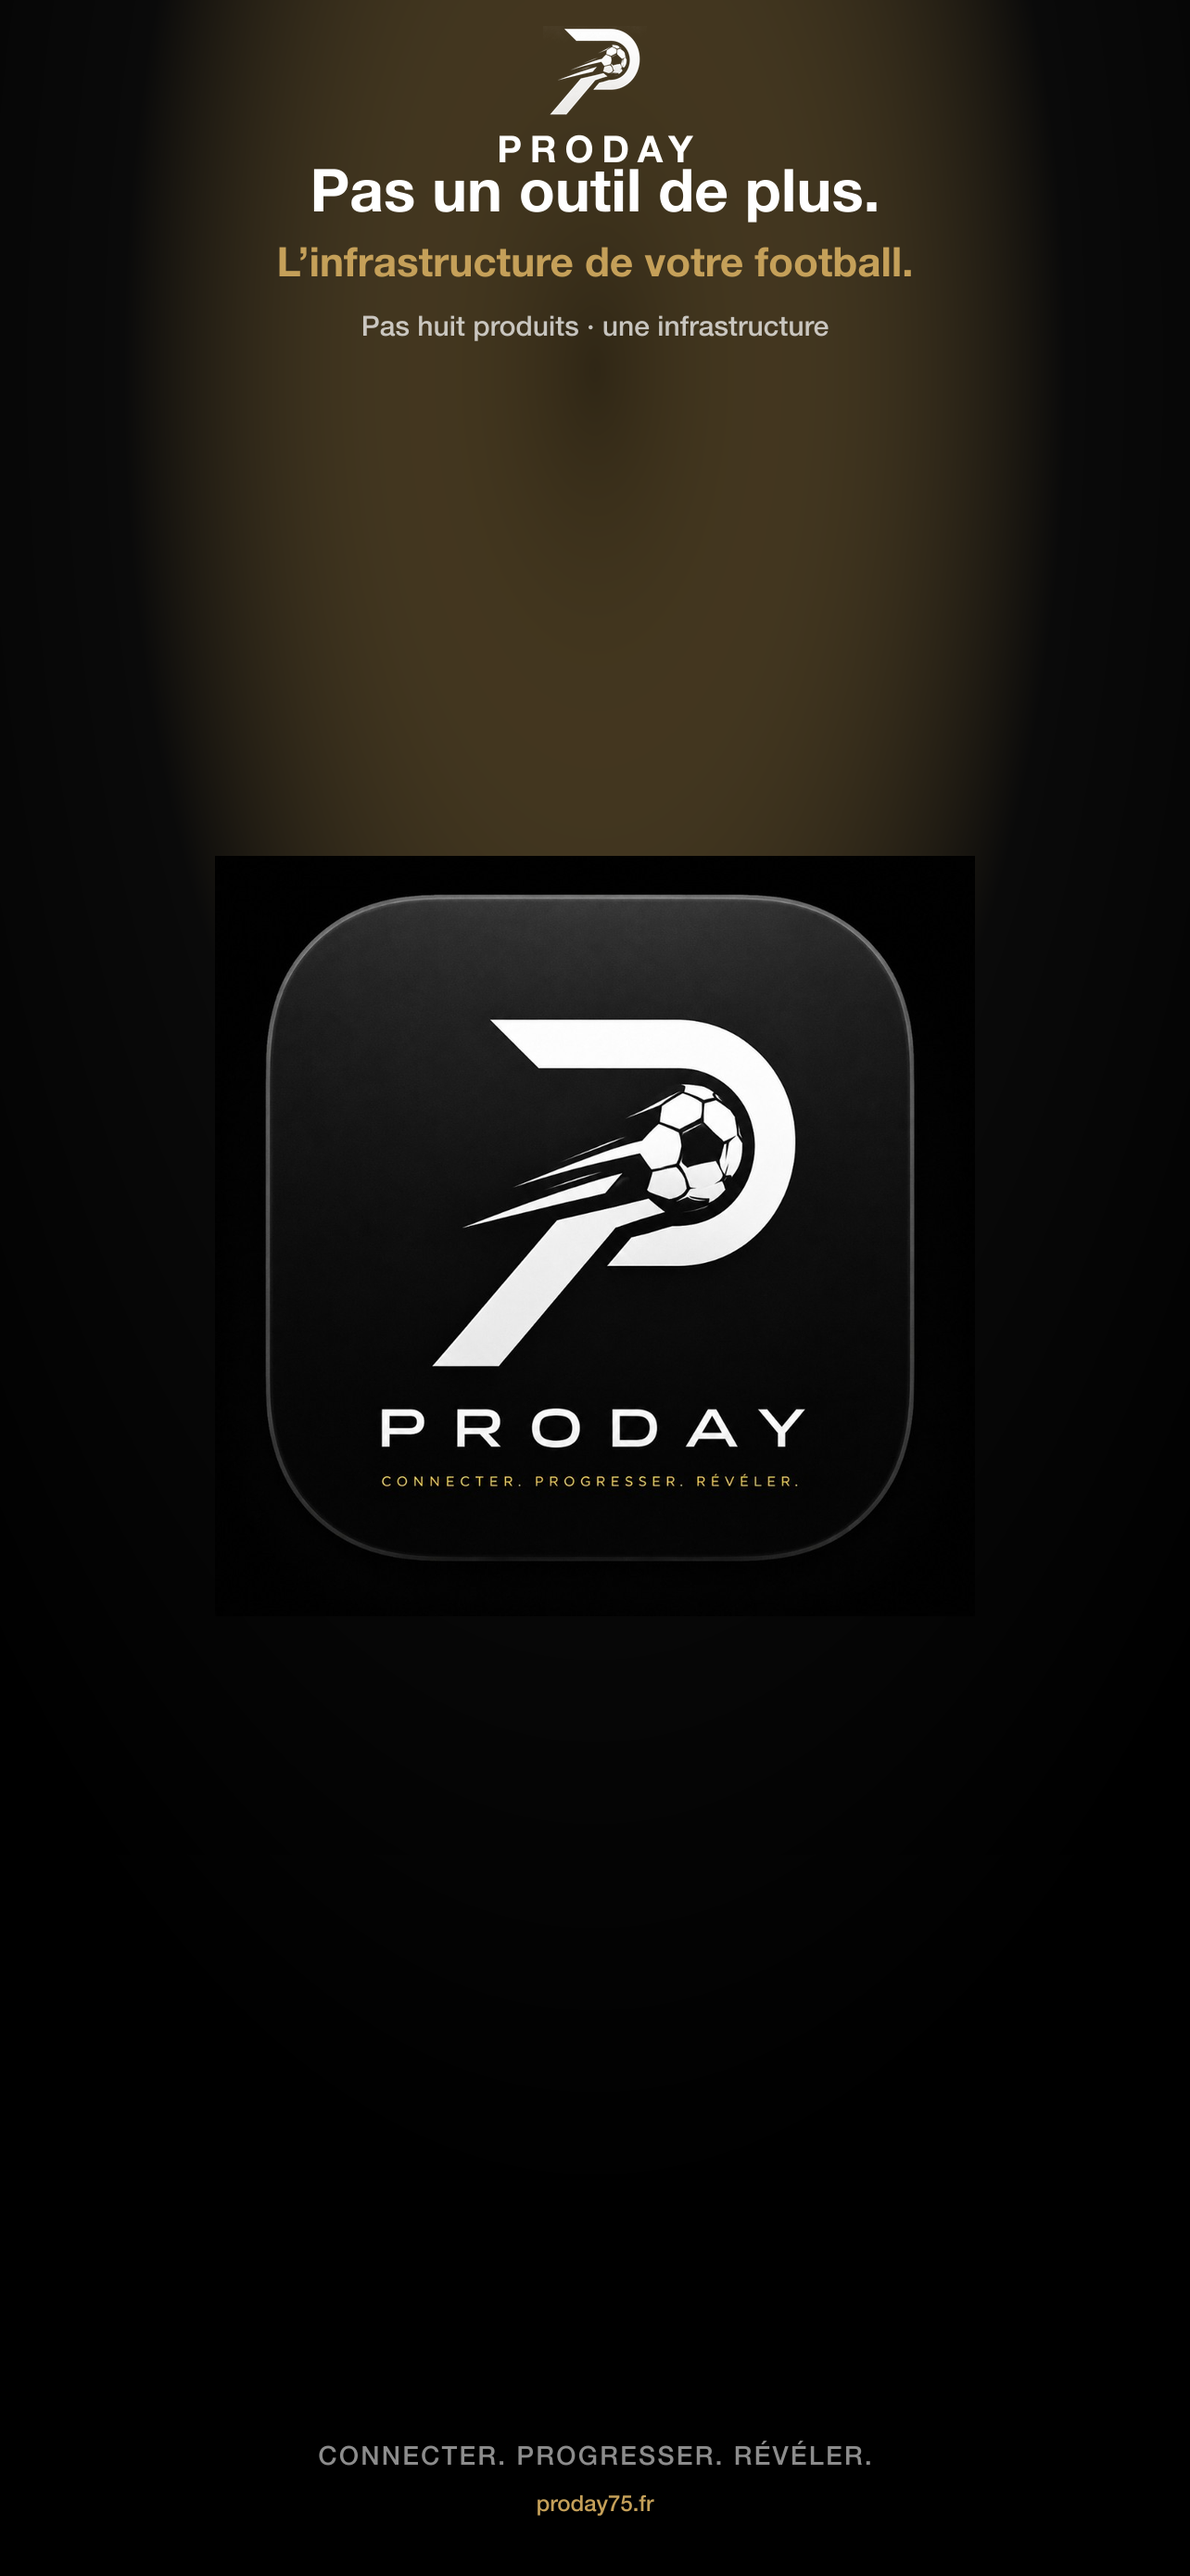
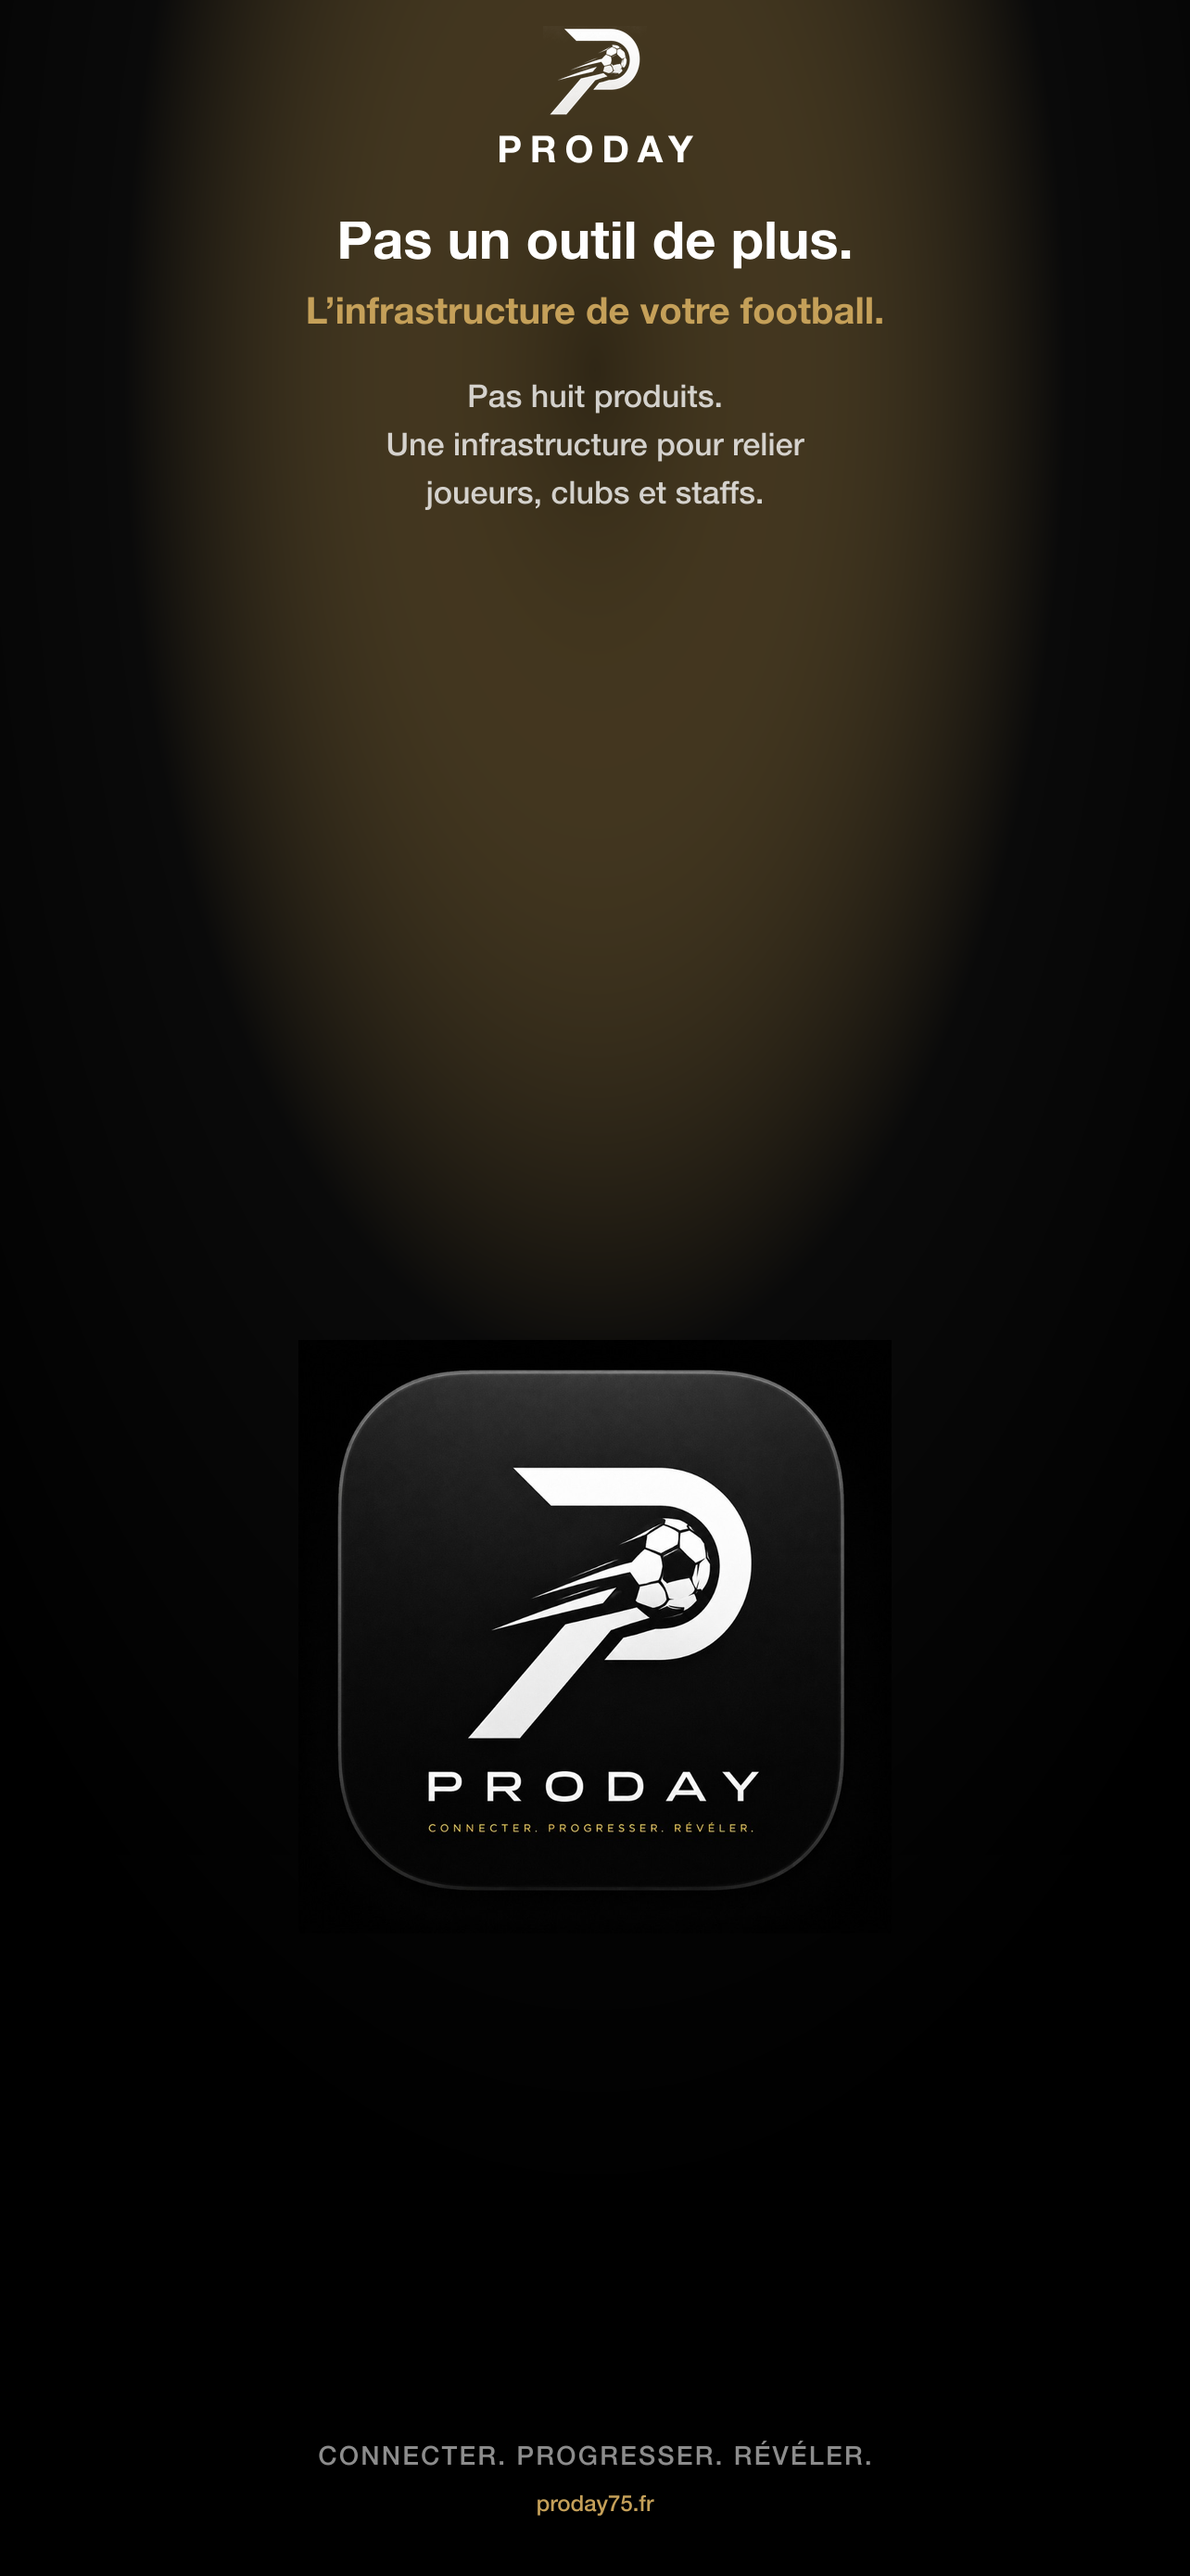
Refaire les 3 captures App Store objectif en texte + branding sans UI app.

diff --git a/assets/marketing/app-store/ios-6.5/README.md b/assets/marketing/app-store/ios-6.5/README.md
@@ -17,6 +17,8 @@ App Store Connect → **Médias de l’app** → **Captures d’écran** → **i
 
 ### Pôles (01–07)
 
+Cadre iPhone + capture simulateur réelle.
+
 | # | Fichier | Pôle | Accroche | Écran réel (v1.0.8) |
 |---|---------|------|----------|----------------------|
 | 1 | `01-pole-joueur.png` | Joueur | Profil, stats et carrière en ligne | `player/player-profil.jpg` |
@@ -31,23 +33,22 @@ App Store Connect → **Médias de l’app** → **Captures d’écran** → **i
 
 ### Objectif / pourquoi ProDay (08–10)
 
-Présentent **pourquoi ProDay existe** (infrastructure · centralisation · portes), pas des pôles supplémentaires.
+Texte + branding (symbole P · wordmark · lockup). **Pas de cadre téléphone**, **pas de screenshot app** — uniquement le but de ProDay.
 
-| # | Fichier | Thème | Accroche | Visuel |
-|---|---------|-------|----------|--------|
-| 8 | `08-objectif-infrastructure.png` | Promesse | Pas un outil de plus. · L’infrastructure de votre football. | Hero lockup brand |
-| 9 | `09-objectif-centralisation.png` | Centralisation | Une seule app · Plus de WhatsApp · tableurs · docs | `club/club-outils.jpg` |
-| 10 | `10-objectif-portes.png` | Portes | Six portes d’entrée · Un seul écosystème | `player/player-accueil.jpg` |
+| # | Fichier | Thème | Accroche |
+|---|---------|-------|----------|
+| 8 | `08-objectif-infrastructure.png` | Infrastructure | Pas un outil de plus. · L’infrastructure de votre football. |
+| 9 | `09-objectif-centralisation.png` | Centralisation | Tout au même endroit. · Ce que la centralisation change. |
+| 10 | `10-objectif-portes.png` | Portes | Six portes d’entrée. · Un seul écosystème. |
 
 **Hors scope App Store public** : Admin (cockpit interne).
 
 ### Template
 
-- **En-tête** : symbole P + wordmark **PRODAY**, titre, promesse courte
-- **Cadre iPhone** : capture simulateur réelle (pôles + 09–10) · **hero lockup** (08)
-- **Pied** : tagline + proday75.fr
+- **Pôles (01–07)** : symbole P + wordmark **PRODAY**, titre, promesse courte · cadre iPhone + UI · pied tagline + proday75.fr
+- **Objectif (08–10)** : même en-tête / pied · copy multi-lignes qui explique le but · lockup brand au centre · **aucune UI app**
 
-Les captures UI proviennent de `website/public/images/app/` — mêmes visuels que le site marketing (simulateur iOS, app **1.0.8**). Copy aligné sur `website/src/lib/positioning.ts` et le footer site.
+Les captures UI (pôles) proviennent de `website/public/images/app/` — mêmes visuels que le site marketing (simulateur iOS, app **1.0.8**). Copy aligné sur `website/src/lib/positioning.ts` et le footer site.
 
 ## 3 captures recommandées en premier
 
@@ -73,8 +74,8 @@ Script : [`scripts/generate-app-store-screenshots.mjs`](../../../../scripts/gene
 
 Sources :
 
-- **Branding** : `assets/branding/proday-symbol-white.png` · `proday-lockup-official-source.png` (08)
-- **UI app** : `website/public/images/app/` (réf. `website/src/lib/*AppScreens.ts`)
+- **Branding** : `assets/branding/proday-symbol-white.png` · `proday-lockup-official-source.png` (08–10)
+- **UI app** (pôles uniquement) : `website/public/images/app/` (réf. `website/src/lib/*AppScreens.ts`)
 
 ## Upload App Store Connect
 
